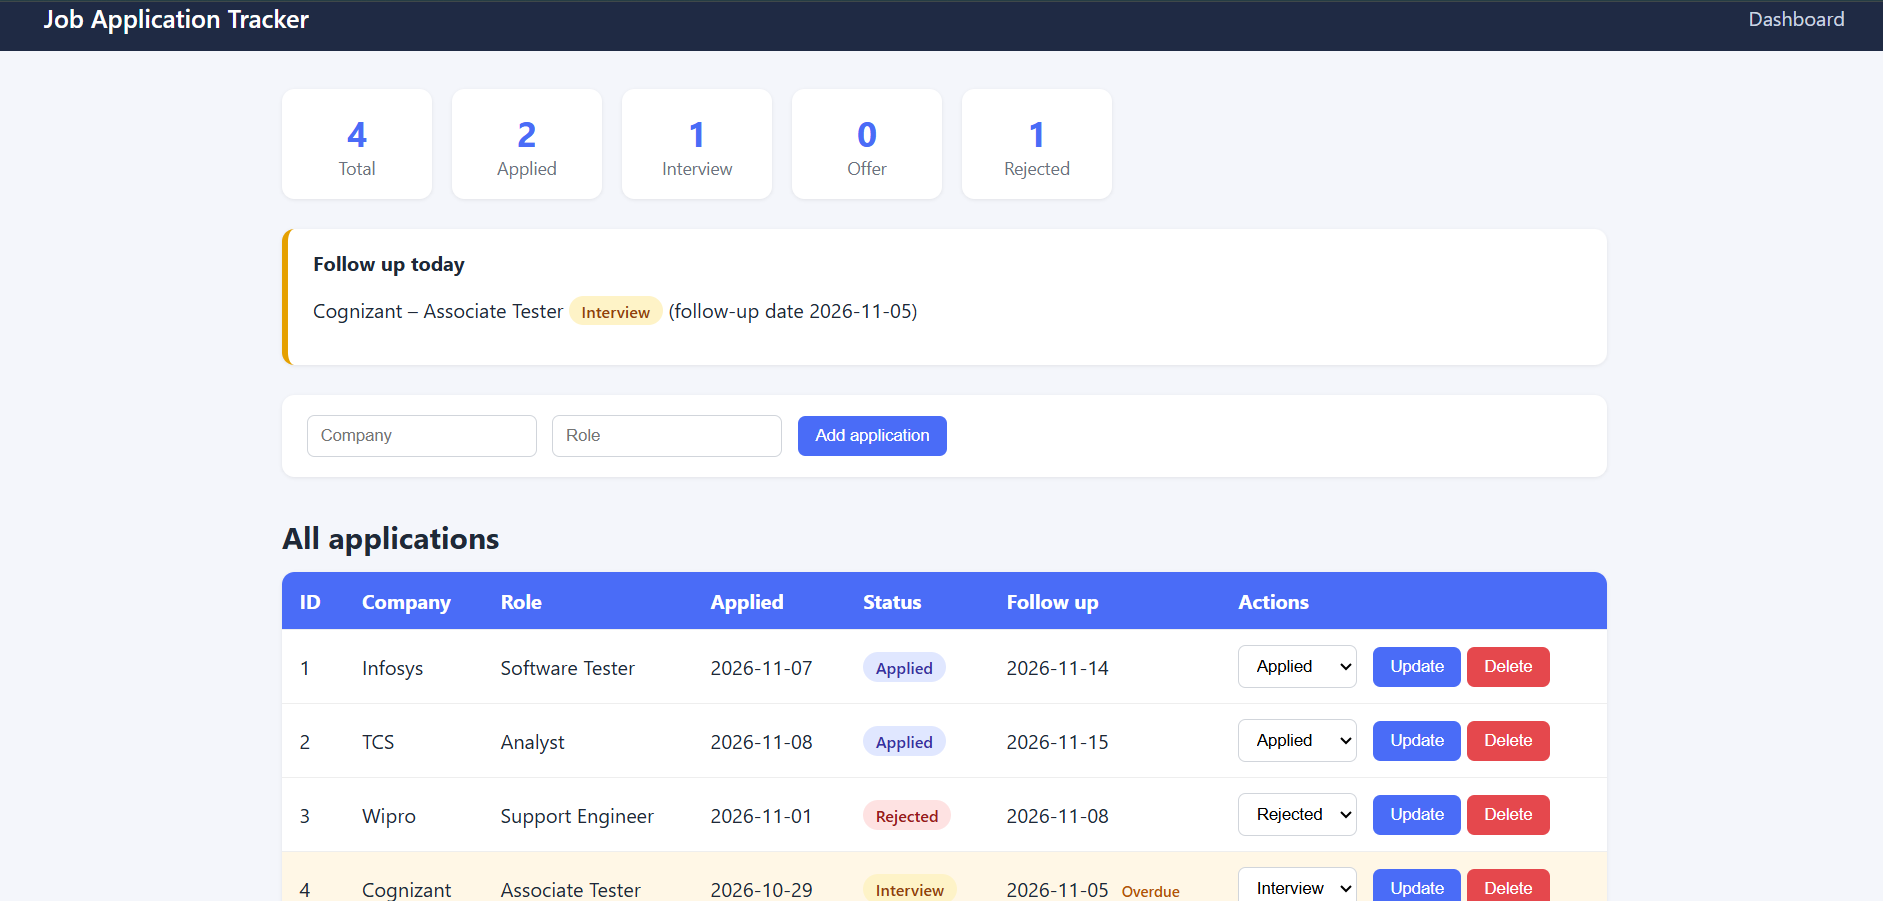
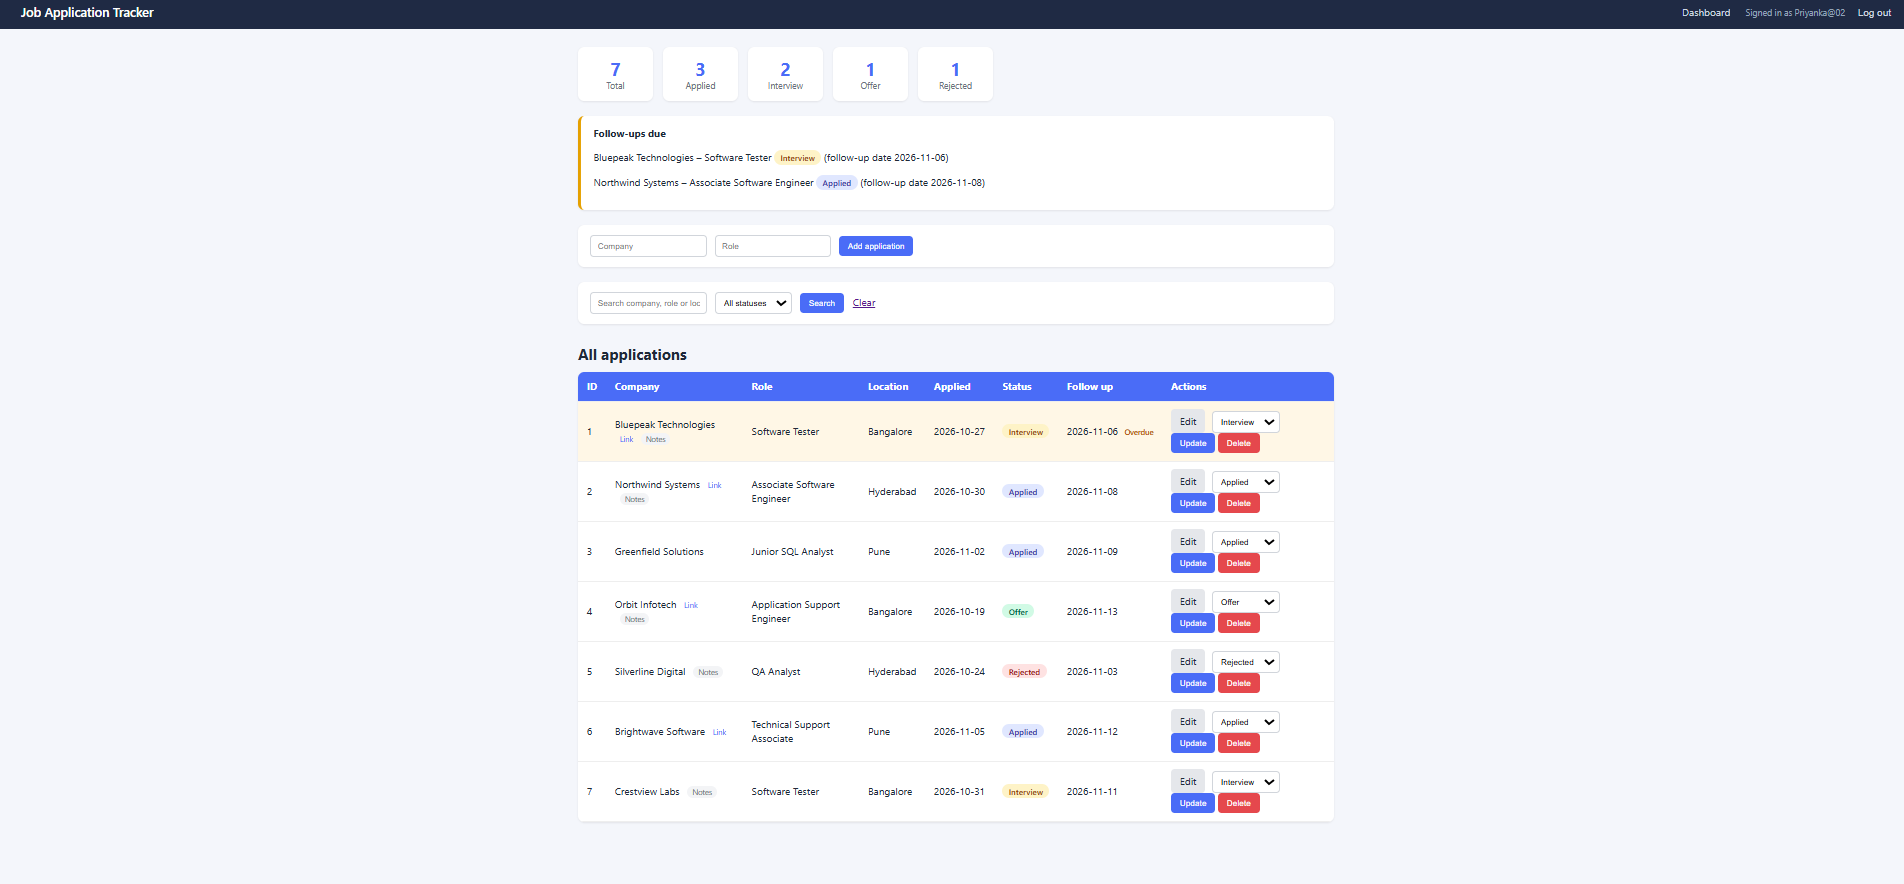
Add extra fields, README, schema and setup template

diff --git a/src/main/webapp/css/style.css b/src/main/webapp/css/style.css
@@ -102,3 +102,17 @@ button.link-btn:hover { color: white; opacity: 1; }
     width: 100%; max-width: 420px; padding: 8px 10px;
     border: 1px solid #d1d5db; border-radius: 6px;
 }
+.form-card textarea {
+    width: 100%; max-width: 420px; padding: 8px 10px;
+    border: 1px solid #d1d5db; border-radius: 6px; font-family: inherit;
+}
+a.job-link {
+    font-size: 12px; margin-left: 8px; color: var(--primary); text-decoration: none;
+}
+a.job-link:hover { text-decoration: underline; }
+.note-tag {
+    display: inline-block; font-size: 12px; margin-left: 8px; padding: 1px 8px;
+    border-radius: 999px; background: #f3f4f6; color: #6b7280; cursor: help;
+}
+.container { max-width: 1250px; }
+table td:nth-child(5), table td:nth-child(7) { white-space: nowrap; }

diff --git a/src/main/java/com/jobtracker/ApplicationDAO.java b/src/main/java/com/jobtracker/ApplicationDAO.java
@@ -3,12 +3,16 @@ package com.jobtracker;
 import java.sql.Connection;
 import java.sql.PreparedStatement;
 import java.sql.ResultSet;
+import java.time.LocalDate;
 import java.util.ArrayList;
 import java.util.LinkedHashMap;
 import java.util.List;
 import java.util.Map;
 
 public class ApplicationDAO {
+
+    private static final String COLUMNS =
+            "id, company, role, applied_date, status, follow_up_date, job_link, location, notes";
 
     private JobApplication mapRow(ResultSet rs) throws Exception {
         return new JobApplication(
@@ -17,21 +21,25 @@ public class ApplicationDAO {
                 rs.getString("role"),
                 rs.getDate("applied_date").toLocalDate(),
                 rs.getString("status"),
-                rs.getDate("follow_up_date").toLocalDate());
+                rs.getDate("follow_up_date").toLocalDate(),
+                rs.getString("job_link"),
+                rs.getString("location"),
+                rs.getString("notes"));
     }
 
-    // Search by company or role text, and/or filter by status. Empty values are ignored.
+    // Search by company, role or location, and/or filter by status. Empty values are ignored.
     public List<JobApplication> search(String q, String status) throws Exception {
         List<JobApplication> list = new ArrayList<>();
         StringBuilder sql = new StringBuilder(
-                "SELECT id, company, role, applied_date, status, follow_up_date "
-                        + "FROM applications WHERE 1=1");
+                "SELECT " + COLUMNS + " FROM applications WHERE 1=1");
         List<String> params = new ArrayList<>();
 
         if (q != null && !q.isBlank()) {
-            sql.append(" AND (company LIKE ? OR role LIKE ?)");
-            params.add("%" + q.trim() + "%");
-            params.add("%" + q.trim() + "%");
+            sql.append(" AND (company LIKE ? OR role LIKE ? OR location LIKE ?)");
+            String like = "%" + q.trim() + "%";
+            params.add(like);
+            params.add(like);
+            params.add(like);
         }
         if (status != null && !status.isBlank()) {
             sql.append(" AND status = ?");
@@ -54,8 +62,7 @@ public class ApplicationDAO {
     // Open applications (Applied / Interview) whose follow-up date is today or earlier
     public List<JobApplication> getFollowUps() throws Exception {
         List<JobApplication> list = new ArrayList<>();
-        String sql = "SELECT id, company, role, applied_date, status, follow_up_date "
-                + "FROM applications "
+        String sql = "SELECT " + COLUMNS + " FROM applications "
                 + "WHERE status IN ('Applied', 'Interview') AND follow_up_date <= CURDATE() "
                 + "ORDER BY follow_up_date";
         try (Connection con = DBConnection.getConnection();
@@ -84,6 +91,18 @@ public class ApplicationDAO {
         return counts;
     }
 
+    public JobApplication getById(int id) throws Exception {
+        String sql = "SELECT " + COLUMNS + " FROM applications WHERE id = ?";
+        try (Connection con = DBConnection.getConnection();
+             PreparedStatement ps = con.prepareStatement(sql)) {
+            ps.setInt(1, id);
+            try (ResultSet rs = ps.executeQuery()) {
+                if (rs.next()) return mapRow(rs);
+            }
+        }
+        return null;
+    }
+
     public void add(String company, String role) throws Exception {
         String sql = "INSERT INTO applications (company, role, applied_date, status, follow_up_date) "
                 + "VALUES (?, ?, CURDATE(), 'Applied', DATE_ADD(CURDATE(), INTERVAL 7 DAY))";
@@ -91,6 +110,25 @@ public class ApplicationDAO {
              PreparedStatement ps = con.prepareStatement(sql)) {
             ps.setString(1, company);
             ps.setString(2, role);
+            ps.executeUpdate();
+        }
+    }
+
+    public void update(int id, String company, String role, String status,
+                       LocalDate followUpDate, String jobLink, String location,
+                       String notes) throws Exception {
+        String sql = "UPDATE applications SET company = ?, role = ?, status = ?, "
+                + "follow_up_date = ?, job_link = ?, location = ?, notes = ? WHERE id = ?";
+        try (Connection con = DBConnection.getConnection();
+             PreparedStatement ps = con.prepareStatement(sql)) {
+            ps.setString(1, company);
+            ps.setString(2, role);
+            ps.setString(3, status);
+            ps.setDate(4, java.sql.Date.valueOf(followUpDate));
+            ps.setString(5, jobLink);
+            ps.setString(6, location);
+            ps.setString(7, notes);
+            ps.setInt(8, id);
             ps.executeUpdate();
         }
     }
@@ -110,33 +148,6 @@ public class ApplicationDAO {
         try (Connection con = DBConnection.getConnection();
              PreparedStatement ps = con.prepareStatement(sql)) {
             ps.setInt(1, id);
-            ps.executeUpdate();
-        }
-    }
-    public JobApplication getById(int id) throws Exception {
-        String sql = "SELECT id, company, role, applied_date, status, follow_up_date "
-                + "FROM applications WHERE id = ?";
-        try (Connection con = DBConnection.getConnection();
-             PreparedStatement ps = con.prepareStatement(sql)) {
-            ps.setInt(1, id);
-            try (ResultSet rs = ps.executeQuery()) {
-                if (rs.next()) return mapRow(rs);
-            }
-        }
-        return null;
-    }
-
-    public void update(int id, String company, String role, String status,
-                       java.time.LocalDate followUpDate) throws Exception {
-        String sql = "UPDATE applications SET company = ?, role = ?, status = ?, "
-                + "follow_up_date = ? WHERE id = ?";
-        try (Connection con = DBConnection.getConnection();
-             PreparedStatement ps = con.prepareStatement(sql)) {
-            ps.setString(1, company);
-            ps.setString(2, role);
-            ps.setString(3, status);
-            ps.setDate(4, java.sql.Date.valueOf(followUpDate));
-            ps.setInt(5, id);
             ps.executeUpdate();
         }
     }

diff --git a/src/main/java/com/jobtracker/EditServlet.java b/src/main/java/com/jobtracker/EditServlet.java
@@ -16,6 +16,10 @@ public class EditServlet extends HttpServlet {
     private final ApplicationDAO dao = new ApplicationDAO();
     private static final List<String> STATUSES = List.of("Applied", "Interview", "Rejected", "Offer");
 
+    private static String nz(String s) {
+        return s == null ? "" : s;
+    }
+
     @Override
     protected void doGet(HttpServletRequest req, HttpServletResponse resp)
             throws ServletException, IOException {
@@ -27,7 +31,8 @@ public class EditServlet extends HttpServlet {
                 return;
             }
             show(req, resp, id, a.getCompany(), a.getRole(), a.getStatus(),
-                    a.getFollowUpDate().toString(), null);
+                    a.getFollowUpDate().toString(), nz(a.getJobLink()),
+                    nz(a.getLocation()), nz(a.getNotes()), null);
         } catch (NumberFormatException e) {
             resp.sendRedirect("applications");
         } catch (Exception e) {
@@ -51,6 +56,9 @@ public class EditServlet extends HttpServlet {
         String role = req.getParameter("role");
         String status = req.getParameter("status");
         String followUp = req.getParameter("followUp");
+        String jobLink = Validation.trimToNull(req.getParameter("jobLink"));
+        String location = Validation.trimToNull(req.getParameter("location"));
+        String notes = Validation.trimToNull(req.getParameter("notes"));
 
         String error = null;
         LocalDate followUpDate = null;
@@ -60,6 +68,12 @@ public class EditServlet extends HttpServlet {
             error = "Role cannot be empty.";
         } else if (company.trim().length() > 100 || role.trim().length() > 100) {
             error = "Company and role must be 100 characters or fewer.";
+        } else if (location != null && location.length() > 100) {
+            error = "Location must be 100 characters or fewer.";
+        } else if (notes != null && notes.length() > 1000) {
+            error = "Notes must be 1000 characters or fewer.";
+        } else if (!Validation.validLink(jobLink)) {
+            error = "Job link must start with http:// or https:// and be under 500 characters.";
         } else if (!STATUSES.contains(status)) {
             error = "Please choose a valid status.";
         } else {
@@ -71,13 +85,14 @@ public class EditServlet extends HttpServlet {
         }
 
         if (error != null) {
-            show(req, resp, id, company == null ? "" : company, role == null ? "" : role,
-                    status == null ? "" : status, followUp == null ? "" : followUp, error);
+            show(req, resp, id, nz(company), nz(role), nz(status), nz(followUp),
+                    nz(jobLink), nz(location), nz(notes), error);
             return;
         }
 
         try {
-            dao.update(id, company.trim(), role.trim(), status, followUpDate);
+            dao.update(id, company.trim(), role.trim(), status, followUpDate,
+                    jobLink, location, notes);
         } catch (Exception e) {
             throw new ServletException(e);
         }
@@ -85,13 +100,17 @@ public class EditServlet extends HttpServlet {
     }
 
     private void show(HttpServletRequest req, HttpServletResponse resp, int id,
-                      String company, String role, String status, String followUp, String error)
+                      String company, String role, String status, String followUp,
+                      String jobLink, String location, String notes, String error)
             throws ServletException, IOException {
         req.setAttribute("id", id);
         req.setAttribute("company", company);
         req.setAttribute("role", role);
         req.setAttribute("status", status);
         req.setAttribute("followUp", followUp);
+        req.setAttribute("jobLink", jobLink);
+        req.setAttribute("location", location);
+        req.setAttribute("notes", notes);
         req.setAttribute("error", error);
         req.getRequestDispatcher("/WEB-INF/views/edit.jsp").forward(req, resp);
     }

diff --git a/src/main/java/com/jobtracker/JobApplication.java b/src/main/java/com/jobtracker/JobApplication.java
@@ -9,15 +9,22 @@ public class JobApplication {
     private LocalDate appliedDate;
     private String status;
     private LocalDate followUpDate;
+    private String jobLink;
+    private String location;
+    private String notes;
 
-    public JobApplication(int id, String company, String role,
-                          LocalDate appliedDate, String status, LocalDate followUpDate) {
+    public JobApplication(int id, String company, String role, LocalDate appliedDate,
+                          String status, LocalDate followUpDate,
+                          String jobLink, String location, String notes) {
         this.id = id;
         this.company = company;
         this.role = role;
         this.appliedDate = appliedDate;
         this.status = status;
         this.followUpDate = followUpDate;
+        this.jobLink = jobLink;
+        this.location = location;
+        this.notes = notes;
     }
 
     public int getId() { return id; }
@@ -26,6 +33,9 @@ public class JobApplication {
     public LocalDate getAppliedDate() { return appliedDate; }
     public String getStatus() { return status; }
     public LocalDate getFollowUpDate() { return followUpDate; }
+    public String getJobLink() { return jobLink; }
+    public String getLocation() { return location; }
+    public String getNotes() { return notes; }
 
     // True when the application is still open and its follow-up date has passed
     public boolean isOverdue() {

diff --git a/src/main/java/com/jobtracker/Validation.java b/src/main/java/com/jobtracker/Validation.java
@@ -1,0 +1,28 @@
+package com.jobtracker;
+
+import java.net.URI;
+import java.net.URISyntaxException;
+
+public class Validation {
+
+    // Trims the text; returns null if it is empty
+    public static String trimToNull(String s) {
+        if (s == null) return null;
+        s = s.trim();
+        return s.isEmpty() ? null : s;
+    }
+
+    // A link is optional (null is fine), but if given it must be http(s) with a host
+    public static boolean validLink(String link) {
+        if (link == null) return true;
+        if (link.length() > 500) return false;
+        try {
+            URI u = new URI(link);
+            String scheme = u.getScheme();
+            return ("http".equalsIgnoreCase(scheme) || "https".equalsIgnoreCase(scheme))
+                    && u.getHost() != null;
+        } catch (URISyntaxException e) {
+            return false;
+        }
+    }
+}

diff --git a/README.md b/README.md
@@ -1,0 +1,62 @@
+# Job Application Tracker (Web)
+
+A full-stack Java web application to track job applications during a job hunt. It runs locally and stores data in MySQL.
+
+The first version of this idea was a console app: [job-application-tracker](https://github.com/Priyanka2-dhar/job-application-tracker).
+
+## Screenshots
+
+**Dashboard**
+
+![Dashboard](docs/dashboard.png)
+
+**Login**
+
+![Login](docs/login.png)
+
+**Edit application**
+
+![Edit](docs/edit.png)
+
+## Features
+- Login and logout, with passwords stored as salted PBKDF2 hashes (never as plain text)
+- Every page is protected by a servlet filter, so you must sign in first
+- Add, edit, update status and delete applications
+- Dashboard with counts per status (SQL `GROUP BY`)
+- "Follow-ups due" list for open applications whose follow-up date has arrived, with overdue rows highlighted
+- Search by company, role or location, and filter by status (SQL `LIKE` with prepared statements)
+- Optional fields: location, job link and notes
+- Server-side validation and a friendly error page
+
+## Tech Stack
+- Java 21, Servlets and JSP (Jakarta EE 10), JSTL
+- JDBC with MySQL 8
+- Maven, Jetty (run from Maven)
+- HTML and CSS
+
+## Project Structure
+```
+src/main/java/com/jobtracker   servlets, DAO classes, filter, utilities
+src/main/webapp/WEB-INF/views  JSP pages
+src/main/webapp/css            stylesheet
+schema.sql                     database tables
+```
+
+## How to Run
+1. Install JDK 21 or newer, and MySQL 8.
+2. Create the database: run `schema.sql` in MySQL Workbench.
+3. Copy `db.properties.example` to `db.properties` and enter your MySQL password.
+4. Create your login by running the `CreateUser` class once and entering a username and password.
+5. Start the server:
+   ```
+   mvn clean org.eclipse.jetty.ee10:jetty-ee10-maven-plugin:12.0.16:run
+   ```
+   (In IntelliJ, create a Maven run configuration with that command.)
+6. Open http://localhost:9090 and log in.
+
+## Notes
+- This is a single-user, local demo. All data is shared by whoever logs in.
+- `db.properties` holds your database password and is ignored by Git.
+
+## Future Plans
+- A multi-user, online version with sign-up and separate data for each user, deployed to the cloud
